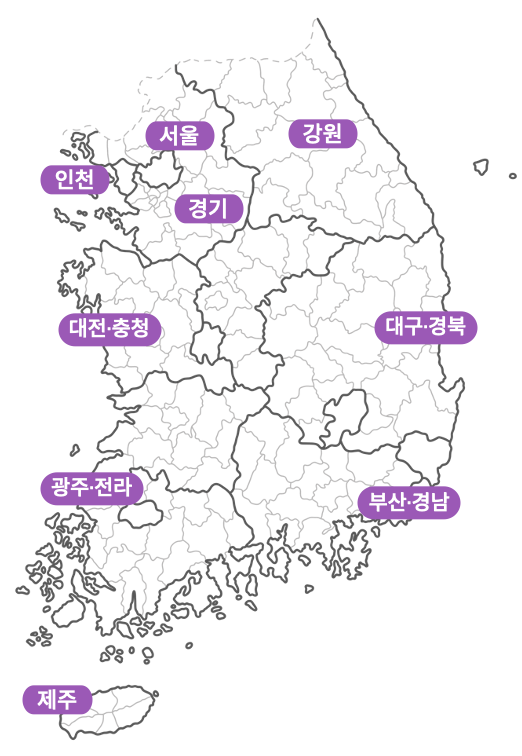
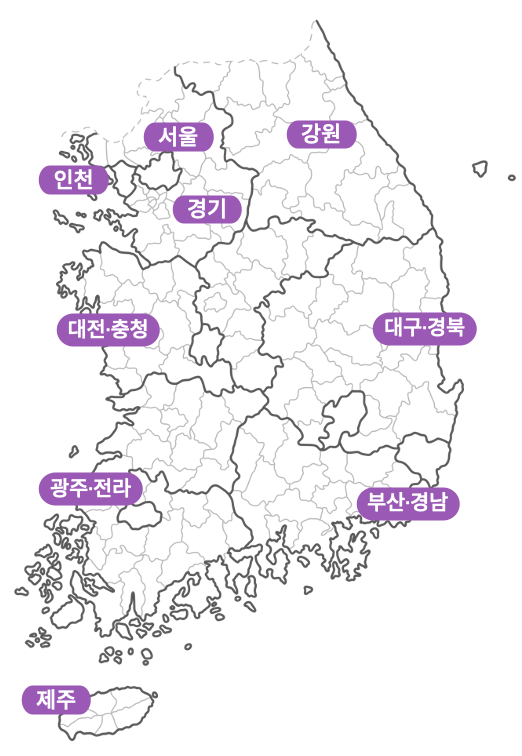
210202 프로젝트

diff --git a/project/home-map.html b/project/home-map.html
@@ -2,7 +2,21 @@
 <head>
   <meta charset="UTF-8">
   <title>Place now</title>
+  <script type="text/javascript">
+    function changeImg(img){
+      var mapimg = document.getElementById('map');
+      mapimg.src = img;
+    }
+    function changeImg1(obj, img){
+      var mapimg1 = document.getElementById('map1');
+      mapimg1.src = img;
+    }
+  </script>    
   <style>
+    * {
+      margin: 0;
+      padding: 0;
+    }
     body {
       display: flex;
       flex-direction: column;
@@ -34,13 +48,32 @@
       color: #333;
       margin-top: -5px;
     }
+    .btm-text {
+      font-size: 12px;
+    }
+    @keyframes moving-btn {
+      0% {
+        transform: none;
+      } 
+      100% {
+        transform: translate(0,0);
+      }
+    }
+    @keyframes moving-btn-reset {
+      0% {
+        transform: none;
+      }
+      100% {
+        transform: translate(0, -5px);
+      }
+    }
     .btm-btn {
       width: 35px;
       height: 35px;
-      transform: rotate(180deg);
+      animation: moving-btn 1s;
     }
-    .btm-text {
-      font-size: 12px;
+    .btm-btn:hover {
+      animation: moving-btn-reset 1s infinite ease;
     }
   </style>
 </head>
@@ -48,7 +81,7 @@
   <div class="top">
     <img src="images/home-menu-btn.png" class="top-btn" alt="" usemap="#image-map">
     <map name="image-map">
-      <area target="" alt="" title="" href="menu.html" coords="303,2,347,39" shape="rect">
+      <area target="" alt="" title="" href="menu-before-login.html" coords="303,2,347,39" shape="rect">
     </map>
   </div>
 
@@ -57,24 +90,24 @@
   </div>
 
   <div class="search">
-    <img src="images/home-map.png" class="search-map" usemap="#image-map2">
+    <img src="images/home-map.png" class="search-map" usemap="#image-map2" id="map">
     <map name="image-map2">
-      <area target="" alt="서울" title="서울" href="" coords="68,57,104,73" shape="rect">
-      <area target="" alt="인천" title="인천" href="" coords="18,79,54,93" shape="rect">
-      <area target="" alt="경기" title="경기" href="" coords="83,93,117,107" shape="rect">
-      <area target="" alt="강원" title="강원" href="" coords="136,56,174,72" shape="rect">
-      <area target="" alt="대전충청" title="대전충청" href="" coords="27,149,79,167" shape="rect">
-      <area target="" alt="대구경북" title="대구경북" href="" coords="179,148,229,167" shape="rect">
-      <area target="" alt="광주전라" title="광주전라" href="" coords="17,224,70,243" shape="rect">
-      <area target="" alt="부산경남" title="부산경남" href="" coords="170,232,222,250" shape="rect">
-      <area target="" alt="제주" title="제주" href="" coords="8,327,46,344" shape="rect">
+      <area target="" alt="서울" title="서울" href="place-list-seoul.html" coords="68,57,104,73" shape="rect" onmouseover="changeImg('images/home-map-seoul-hover.png')" onmouseout="changeImg('images/home-map.png')">
+      <area target="" alt="인천" title="인천" href="" coords="18,79,54,93" shape="rect" onmouseover="changeImg('images/home-map-incheon-hover.png')" onmouseout="changeImg('images/home-map.png')">
+      <area target="" alt="경기" title="경기" href="" coords="83,93,117,107" shape="rect" onmouseover="changeImg('images/home-map-gyeonggi-hover.png')" onmouseout="changeImg('images/home-map.png')">
+      <area target="" alt="강원" title="강원" href="" coords="136,56,174,72" shape="rect" onmouseover="changeImg('images/home-map-gangwon-hover.png')" onmouseout="changeImg('images/home-map.png')">
+      <area target="" alt="대전충청" title="대전충청" href="" coords="27,149,79,167" shape="rect" onmouseover="changeImg('images/home-map-chungcheong-hover.png')" onmouseout="changeImg('images/home-map.png')">
+      <area target="" alt="대구경북" title="대구경북" href="" coords="179,148,229,167" shape="rect" onmouseover="changeImg('images/home-map-gyeongbuk-hover.png')" onmouseout="changeImg('images/home-map.png')">
+      <area target="" alt="광주전라" title="광주전라" href="" coords="17,224,70,243" shape="rect" onmouseover="changeImg('images/home-map-jeolla-hover.png')" onmouseout="changeImg('images/home-map.png')">
+      <area target="" alt="부산경남" title="부산경남" href="" coords="170,232,222,250" shape="rect" onmouseover="changeImg('images/home-map-gyeongnam-hover.png')" onmouseout="changeImg('images/home-map.png')">
+      <area target="" alt="제주" title="제주" href="" coords="8,327,46,344" shape="rect" onmouseover="changeImg('images/home-map-jeju-hover.png')" onmouseout="changeImg('images/home-map.png')">
     </map>
   </div>
 
   <div class="btm">
     <span class="btm-text">검색하여 찾기</span>
     <a href="home.html">
-      <img src="images/home-btm-btn.png" class="btm-btn" alt="">
+      <img src="images/home-btm-up-btn.png" class="btm-btn" alt="">
     </a>
   </div>
 </body>

diff --git a/project/place-list-seoul.html b/project/place-list-seoul.html
@@ -1,0 +1,112 @@
+<!DOCTYPE html>
+<head>
+  <meta charset="UTF-8">
+  <title>Document</title>
+  <style>
+    * {
+      margin: 0;
+      padding: 0;
+    }
+    body {
+      display: flex;
+      flex-direction: column;
+      align-items: center;
+      width: 360px;
+      height: 600px;
+      margin: 0 auto;
+      padding: 0;
+      margin-top: 10px;
+    }
+    ul {
+      list-style-type: none;
+    }
+    a {
+      text-decoration: none;
+      color: #eee;
+    }
+    .header {
+      width: 360px;
+      height: 50px;
+    }
+    .header-btn {
+      width: 100%;
+      height: 100%;
+    }
+    .nav {
+      width: 360px;
+      height: 50px;
+      overflow-x: auto;
+    }
+    /* 스크롤바 숨기기 */
+    .nav::-webkit-scrollbar {
+      display: none;
+    }
+    .nav ul{
+      width: 920px;
+      height: 40px;
+    }
+    .nav li {
+      display: inline-block;
+      height: 40px;
+      font-size: 35px;
+      font-weight: bold;
+      margin: 0 3px;
+    }
+    .active {
+      color: #333;
+    }
+    .contents {
+      width: 360px;
+      margin: 10px;
+      height: 600px;
+      overflow-y: auto;
+    }
+    .contents ul {
+      width: 360px;
+      height: 1000px;
+    }
+    .contents li {
+      font-size: 100px;
+    }
+
+  </style>
+</head>
+<body>
+  <div class="header">
+    <img src="images/list-top-btn.png" class="header-btn" alt="" usemap="#image-map">
+    <map name="image-map">
+      <area target="" alt="" title="" href="home.html" coords="10,3,106,45" shape="rect">
+      <area target="" alt="" title="" href="menu-before-login.html" coords="299,3,348,43" shape="rect">
+    </map>
+  </div>
+
+  <div class="nav">
+    <ul>
+      <li><a href="place-list-seoul.html" class="active">서울</a></li>
+      <li><a href="">경기</a></li>
+      <li><a href="">인천</a></li>
+      <li><a href="">강원</a></li>
+      <li><a href="">대전・충청</a></li>
+      <li><a href="">광주・전라</a></li>
+      <li><a href="">대구・경북</a></li>
+      <li><a href="">부산・경남</a></li>
+      <li><a href="">제주</a></li>
+    </ul>
+  </div>
+
+  <div class="contents">
+    <ul>
+      <li>1</li>
+      <li>2</li>
+      <li>3</li>
+      <li>4</li>
+      <li>5</li>
+      <li>6</li>
+      <li>7</li>
+      <li>8</li>
+      <li>9</li>
+      <li>10</li>
+    </ul>
+  </div>
+</body>
+</html>

diff --git a/project/menu-after-login.html b/project/menu-after-login.html
@@ -1,0 +1,72 @@
+<!DOCTYPE html>
+<head>
+  <meta charset="UTF-8">
+  <title>Document</title>
+  <style>
+    * {
+      margin: 0;
+      padding: 0;
+    }
+    body {
+    display: flex;
+    width: 360px;
+    height: 600px;
+    flex-direction: column;
+    align-items: center;
+    background: url("images/menu-background.png") no-repeat center bottom;
+    background-size: 360px 100px;
+    padding-top: 5px;
+    margin: 0 auto;
+    }
+    .top-bar {
+      width: 360px;
+      height: 45px;
+      margin-top: 5px;
+    }
+    ul {
+      width: 360px;
+      list-style-type: none;
+      text-align: center;
+      margin-top: -5px;
+      padding-left: 0;
+    }
+    li {
+      padding: 15px;
+      font-size: 1.2em;
+      font-weight: bold;
+    }
+    p {
+      margin-top: 20px;
+      margin-bottom: 10px;
+      margin-right: 200px;
+      font-weight: bold;
+      color: #333;
+    }
+    a {
+      text-decoration: none;
+      color: #333;
+    }
+  </style>
+  
+</head>
+<body>
+  <div class="top">
+    <img src="images/menu-top-btn.png" class="top-bar" alt="" usemap="#image-map">
+    <map name="image-map">
+      <area target="" alt="" title="" href="home.html" coords="16,5,58,43" shape="rect">
+      <area target="" alt="" title="" onclick="history.back()" coords="302,1,348,41" shape="rect">
+    </map>  
+  </div>
+
+  <p>바밤바님 환영합니다.</p>
+  
+  <div class="menu-list">
+    <ul>
+      <li><a href="login.html">로그아웃</a></li>
+      <li><a href="">마이페이지</a></li>
+      <li><a href="">즐겨찾기</a></li>
+      <li><a href="">문의게시판</a></li>
+    </ul>
+  </div>
+</body>
+</html>

diff --git a/project/home.html b/project/home.html
@@ -3,6 +3,10 @@
   <meta charset="UTF-8">
   <title>Place now</title>
   <style>
+    * {
+      margin: 0;
+      padding: 0;
+    }
     body {
       display: flex;
       flex-direction: column;
@@ -58,9 +62,29 @@
     .btm-text {
       font-size: 12px;
     }
+    @keyframes moving-btn {
+      0% {
+        transform: none;
+      } 
+      100% {
+        transform: translate(0,0);
+      }
+    }
+    @keyframes moving-btn-reset {
+      0% {
+        transform: none;
+      }
+      100% {
+        transform: translate(0, 5px);
+      }
+    }
     .btm-btn {
       width: 35px;
       height: 35px;
+      animation: moving-btn 1s;
+    }
+    .btm-btn:hover {
+      animation: moving-btn-reset 1s infinite ease;
     }
   </style>
 </head>
@@ -68,7 +92,7 @@
   <div class="top">
     <img src="images/home-menu-btn.png" class="top-btn" alt="" usemap="#image-map">
     <map name="image-map">
-      <area target="" alt="" title="" href="menu.html" coords="303,2,347,39" shape="rect">
+      <area target="" alt="" title="" href="menu-before-login.html" coords="303,2,347,39" shape="rect">
     </map>
   </div>
 
@@ -86,7 +110,7 @@
   <div class="btm">
     <span class="btm-text">지도로 보기</span>
     <a href="home-map.html">
-      <img src="images/home-btm-btn.png" class="btm-btn" alt="">
+      <img src="images/home-btm-down-btn.png" class="btm-btn" alt="">
     </a>
   </div>
 </body>

diff --git a/project/login.html b/project/login.html
@@ -80,7 +80,7 @@
     <div class="top">
         <img src="images/home-menu-btn.png" class="top-btn" alt="" usemap="#image-map">
         <map name="image-map">
-          <area target="" alt="" title="" href="menu.html" coords="303,2,347,39" shape="rect">
+          <area target="" alt="" title="" href="menu-before-login.html" coords="303,2,347,39" shape="rect">
         </map>
     </div>
     <div>
@@ -89,7 +89,8 @@
       </a>
     </div>
     <div class="login-form">
-      <form method="POST">
+      <!-- <form method="POST"> -->
+      <form action="">
         <fieldset>
           <legend>로그인</legend>
           <ul>
@@ -103,7 +104,8 @@
               <label for="pw">
                 <img src="images/login-pw-icon.png" class="form-icon" alt="">
                 <input class="input-bar" type="password" placeholder="비밀번호" name="pw">
-                <input type="image" class="login-btn" src="images/login-btn.png">
+                <!-- <input type="image" class="login-btn" src="images/login-btn.png"> -->
+                <a href="menu-after-login.html"><img src="images/login-btn.png" class="login-btn" alt=""></a>
               </label>
             </li>
             <li>

diff --git a/project/menu-before-login.html b/project/menu-before-login.html
@@ -3,6 +3,10 @@
   <meta charset="UTF-8">
   <title>Document</title>
   <style>
+    * {
+      margin: 0;
+      padding: 0;
+    }
     body {
     display: flex;
     width: 360px;
